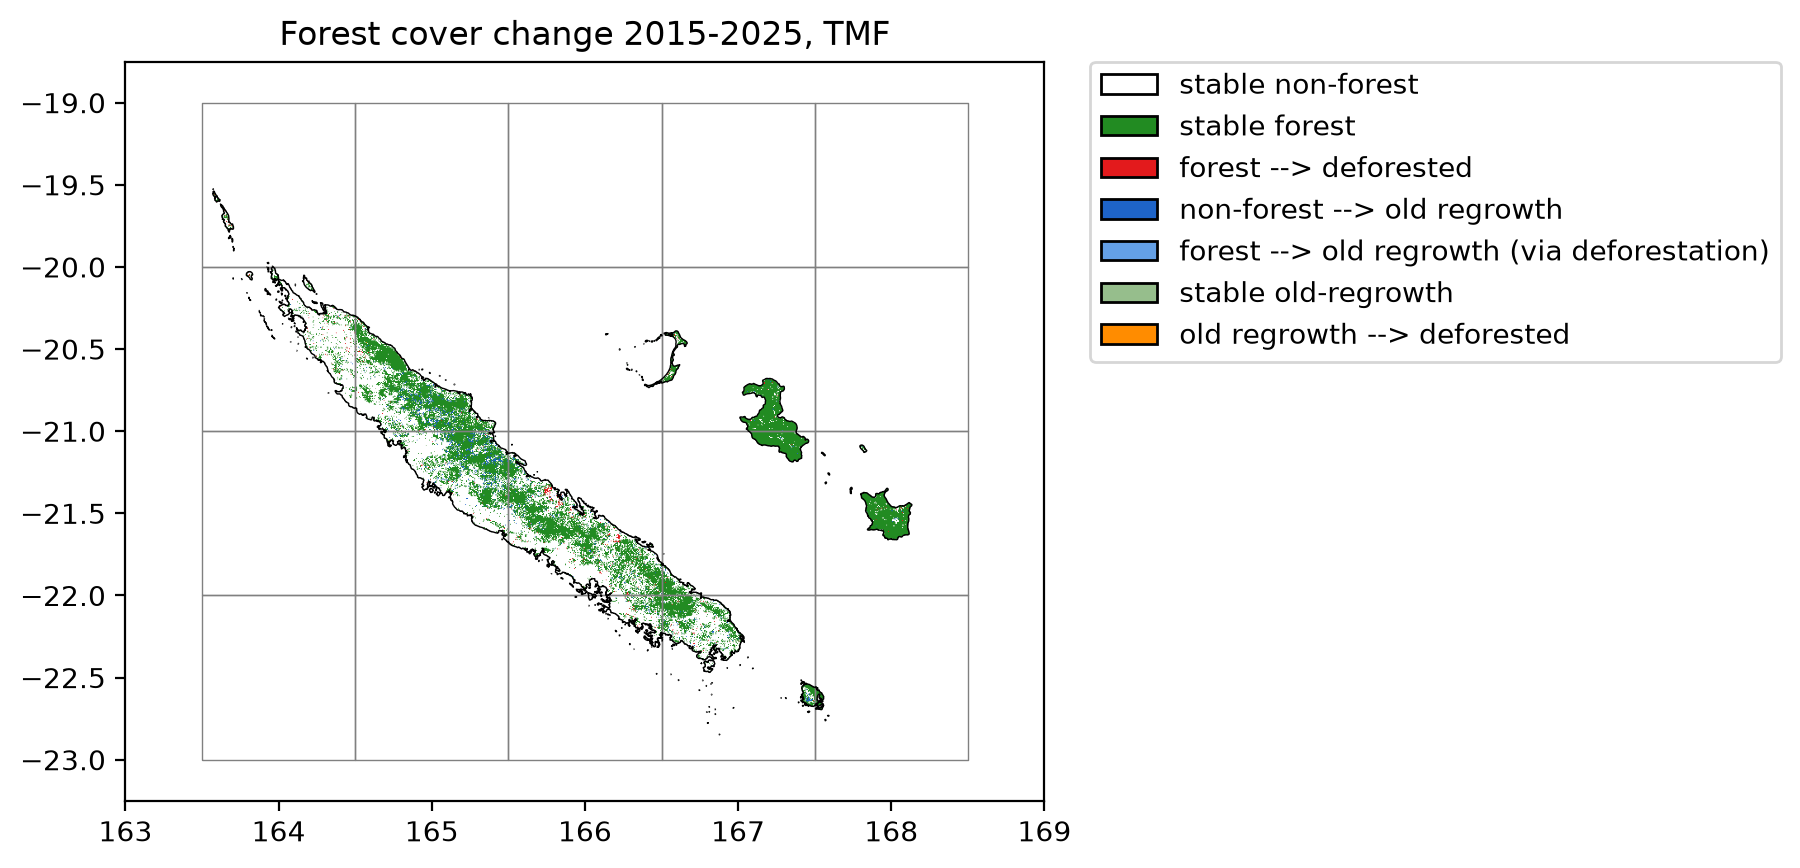
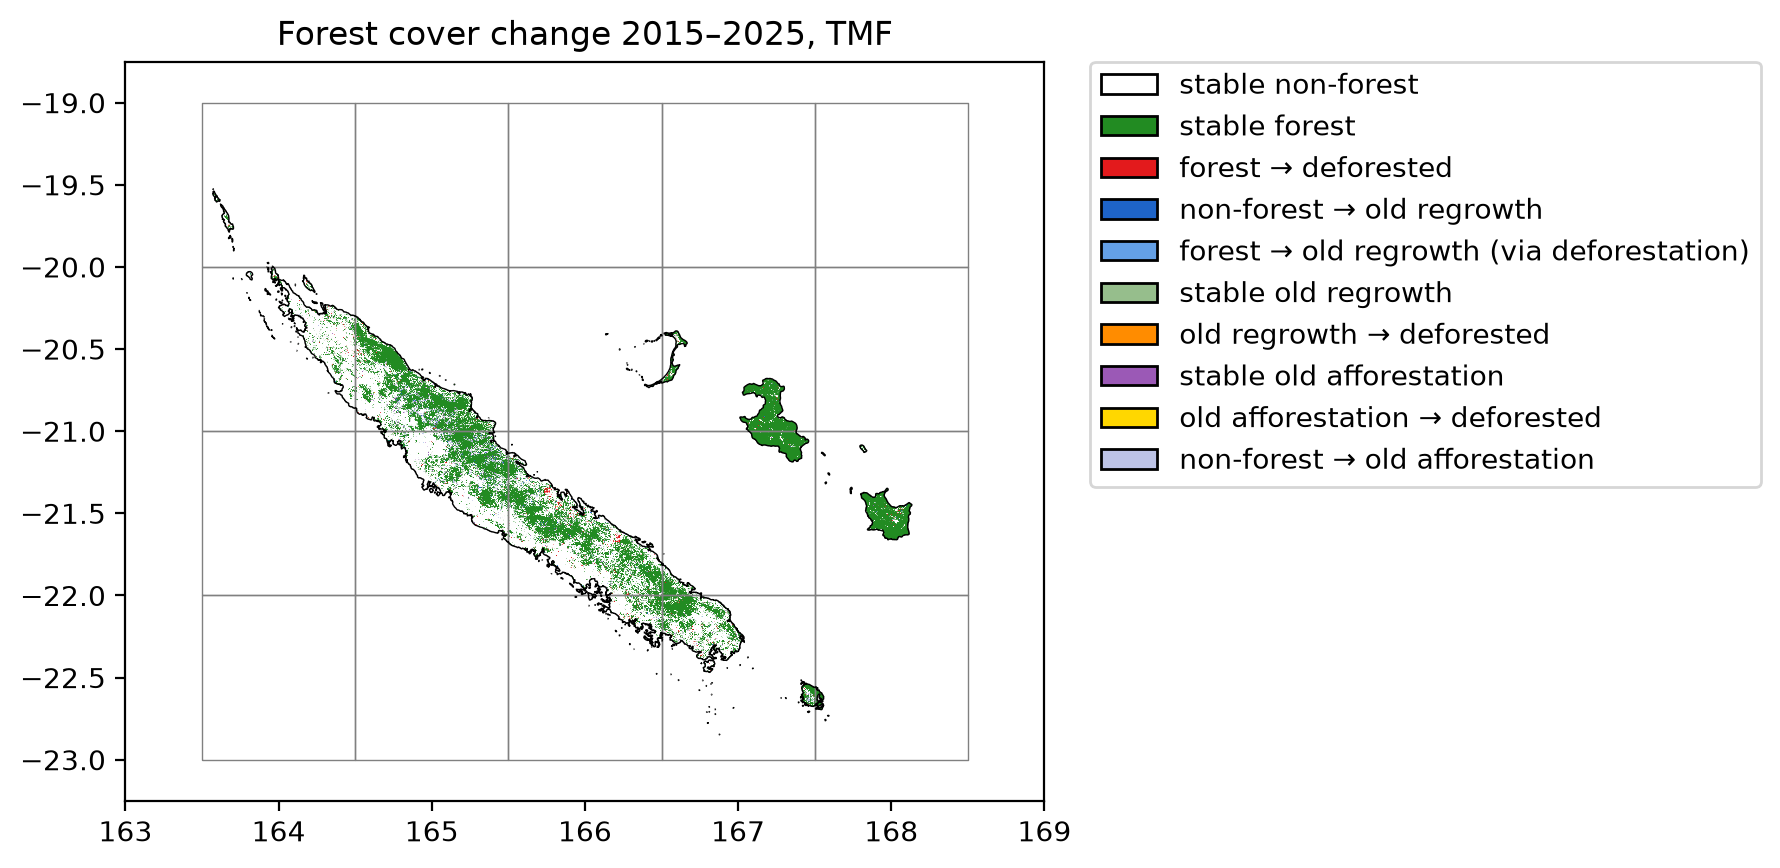
Updating tutorials

diff --git a/docsrc/notebooks/newcal_loss_gain/newcal_loss_gain.rst b/docsrc/notebooks/newcal_loss_gain/newcal_loss_gain.rst
@@ -29,12 +29,12 @@ We will use New Caledonia as a case study.
     # Initialize GEE
     ee.Initialize(project="deforisk", opt_url="https://earthengine-highvolume.googleapis.com")
 
-We want to estimate and map the forest cover change for the period 2015--2025, considering regrowth of at least 5 years as being forest, which is debatable :cite:p:`Poorter2016,Bourgoin2024`.
+We want to estimate and map the forest cover change for the period 2015--2025, considering regrowth of at least 10 years as being forest, which is debatable :cite:p:`Poorter2016,Bourgoin2024`.
 
 .. code:: python
 
     # Download data from GEE
-    min_years = 5
+    min_years = 10
     out_dir = Path(f"out_tmf_{min_years}yr")
     ofile = out_dir / "fcc_tmf.tif"
     if not ofile.is_file():
@@ -60,7 +60,7 @@ We estimate the computation time to download 20 1-degree tiles using several cor
 
 ::
 
-    Execution time: 1.19 minutes
+    Execution time: 1.25 minutes
 
 Plot the forest cover change map
 --------------------------------
@@ -72,7 +72,7 @@ We plot the forest cover change map. The raster is automatically resampled to a 
     geefcc.plot_fcc_loss_gain(
         input_file=ofile,
         output_file=f"fcc_tmf_{min_years}yr.png",
-        title="Forest cover change 2015-2025, TMF",
+        title="Forest cover change 2015\u20132025, TMF",
         dpi=200,
         borders=Path("data") / "borders_NCL.gpkg",
         grid=out_dir / "grid.gpkg",
@@ -80,7 +80,7 @@ We plot the forest cover change map. The raster is automatically resampled to a 
         ylim=(-23.25, -18.75),
     )
 
-.. image:: fcc_tmf_5yr.png
+.. image:: fcc_tmf_10yr.png
     :width: 100%
     :align: center
 
@@ -105,19 +105,25 @@ We use function ``stat_fcc_loss_gain()`` to reproject the raster and compute the
     +----------+---------------------------------------------+-----------+----------+
     | category | label                                       |     count | area\_ha |
     +==========+=============================================+===========+==========+
-    |        0 | stable non-forest                           | 200532616 | 18047935 |
+    |        0 | stable non-forest                           | 201155951 | 18104036 |
     +----------+---------------------------------------------+-----------+----------+
     |        1 | stable forest                               |   9349449 |   841450 |
     +----------+---------------------------------------------+-----------+----------+
-    |        2 | forest --> deforested                       |    161223 |    14510 |
+    |        2 | forest --> deforested                       |    177846 |    16006 |
     +----------+---------------------------------------------+-----------+----------+
-    |        3 | non-forest --> old regrowth                 |    781232 |    70311 |
+    |        3 | non-forest --> old regrowth                 |     69727 |     6275 |
     +----------+---------------------------------------------+-----------+----------+
-    |        4 | forest --> old regrowth (via deforestation) |     16623 |     1496 |
+    |        4 | forest --> old regrowth (via deforestation) |         0 |        0 |
     +----------+---------------------------------------------+-----------+----------+
-    |        5 | stable old-regrowth                         |    516513 |    46486 |
+    |        5 | stable old-regrowth                         |     12317 |     1109 |
     +----------+---------------------------------------------+-----------+----------+
-    |        6 | old regrowth --> deforested                 |      9192 |      827 |
+    |        6 | old regrowth --> deforested                 |      1522 |      137 |
+    +----------+---------------------------------------------+-----------+----------+
+    |        7 | stable old afforestation                    |    187208 |    16849 |
+    +----------+---------------------------------------------+-----------+----------+
+    |        8 | old afforestation --> deforested            |        51 |        5 |
+    +----------+---------------------------------------------+-----------+----------+
+    |        9 | non-forest --> old afforestation            |    412777 |    37150 |
     +----------+---------------------------------------------+-----------+----------+
 
 Deforestation and regrowth estimates
@@ -127,10 +133,10 @@ We can then estimate gross loss, gross gain and net loss in forest cover change 
 
 .. code:: python
 
-    forest_t1 = res_df.loc[[1, 2, 4, 5, 6], "area_ha"].sum()
-    forest_t2 = res_df.loc[[1, 3, 4, 5], "area_ha"].sum()
-    gross_loss = - res_df.loc[[2, 4, 6], "area_ha"].sum()
-    gross_gain = res_df.loc[[3, 4], "area_ha"].sum()
+    forest_t1 = res_df.loc[[1, 2, 4, 5, 6, 7, 8], "area_ha"].sum()
+    forest_t2 = res_df.loc[[1, 3, 4, 5, 7, 9], "area_ha"].sum()
+    gross_loss = - res_df.loc[[2, 4, 6, 8], "area_ha"].sum()
+    gross_gain = res_df.loc[[3, 4, 9], "area_ha"].sum()
     lossgain_df = pd.DataFrame({
         "label": ["forest_t1", "forest_t2", "gross loss", "gross gain", "net change"],
         "area_ha": [forest_t1, forest_t2, gross_loss, gross_gain, gross_gain + gross_loss],
@@ -150,20 +156,58 @@ We can then estimate gross loss, gross gain and net loss in forest cover change 
     +------------+----------+--------------------+----------------------+
     | label      | area\_ha | annual\_change\_ha | annual\_change\_perc |
     +============+==========+====================+======================+
-    | forest\_t1 |   904769 |                nan |                  nan |
+    | forest\_t1 |   875556 |                nan |                  nan |
     +------------+----------+--------------------+----------------------+
-    | forest\_t2 |   959743 |                nan |                  nan |
+    | forest\_t2 |   902833 |                nan |                  nan |
     +------------+----------+--------------------+----------------------+
-    | gross loss |   -16833 |              -1683 |                -0.18 |
+    | gross loss |   -16148 |              -1615 |                -0.18 |
     +------------+----------+--------------------+----------------------+
-    | gross gain |    71807 |               7181 |                 0.82 |
+    | gross gain |    43425 |               4342 |                 0.51 |
     +------------+----------+--------------------+----------------------+
-    | net change |    54974 |               5497 |                 0.62 |
+    | net change |    27277 |               2728 |                 0.32 |
     +------------+----------+--------------------+----------------------+
 
-When considering regrowth of at least 5 years, which is very short for forest recovery :cite:p:`Bourgoin2024`, the gain (7181 ha/yr) compensates the forest cover loss (-1683 ha/yr), and the net change is positive (5947 ha/yr).
+When considering regrowth of at least 10 years, which is short for forest recovery :cite:p:`Bourgoin2024`, the gain (4342 ha/yr) compensates the forest cover loss (-1615 ha/yr), and the net change is positive (2728 ha/yr, corresponding to 0.32 %/yr).
 
-If we consider regrowth of at least 10 years as being forest (``min_years=10`` in function ``get_fcc_loss_gain``), the gain is much smaller (4342 ha/yr), but the net change is still positive (2728 ha/yr corresponding to 0.32 %/yr).
+When disregarding afforestation (categories 8 and 9, which might be several things including missed forest in the past), figures are different:
+
+.. code:: python
+
+    forest_t1 = res_df.loc[[1, 2, 4, 5, 6, 7], "area_ha"].sum()
+    forest_t2 = res_df.loc[[1, 3, 4, 5, 7], "area_ha"].sum()
+    gross_loss = - res_df.loc[[2, 4, 6], "area_ha"].sum()
+    gross_gain = res_df.loc[[3, 4], "area_ha"].sum()
+    lossgain_df = pd.DataFrame({
+        "label": ["forest_t1", "forest_t2", "gross loss", "gross gain", "net change"],
+        "area_ha": [forest_t1, forest_t2, gross_loss, gross_gain, gross_gain + gross_loss],
+    })
+    time = 2025 - 2015
+    lossgain_df["annual_change_ha"] = (lossgain_df["area_ha"] / time).round().astype(int)
+    ratio = lossgain_df["area_ha"] / forest_t1
+    lossgain_df["annual_change_perc"] = round(100 * (1 - pow((1 - ratio), 1 / time)), 2)
+    lossgain_df.iloc[:2, 2:4] = np.nan
+
+    # Export
+    lossgain_df.to_csv(f"loss_gain_statistics_{min_years}yr_noaff.csv", index=False)
+    tabulate(lossgain_df, headers=lossgain_df.columns, tablefmt="orgtbl", showindex=False)
+
+.. table::
+
+    +------------+----------+--------------------+----------------------+
+    | label      | area\_ha | annual\_change\_ha | annual\_change\_perc |
+    +============+==========+====================+======================+
+    | forest\_t1 |   875551 |                nan |                  nan |
+    +------------+----------+--------------------+----------------------+
+    | forest\_t2 |   865683 |                nan |                  nan |
+    +------------+----------+--------------------+----------------------+
+    | gross loss |   -16143 |              -1614 |                -0.18 |
+    +------------+----------+--------------------+----------------------+
+    | gross gain |     6275 |                628 |                 0.07 |
+    +------------+----------+--------------------+----------------------+
+    | net change |    -9868 |               -987 |                -0.11 |
+    +------------+----------+--------------------+----------------------+
+
+In this case, the gain (628 ha/yr) does not compensate for the loss (-1614 ha/yr), and the net change is negative (-987 ha/yr, corresponding to -0.11 %/yr).
 
 References
 ----------

diff --git a/docsrc/notebooks/loss_gain/loss_gain.rst b/docsrc/notebooks/loss_gain/loss_gain.rst
@@ -51,6 +51,10 @@ We want to estimate and map the forest cover change for the period 2015--2025, c
             output_file=ofile,
         )
 
+::
+
+    get_fcc running, 3 tiles ...
+
 Plot the forest cover change map
 --------------------------------
 
@@ -59,7 +63,7 @@ Plot the forest cover change map
     geefcc.plot_fcc_loss_gain(
         input_file=ofile,
         output_file="fcc_loss_gain.png",
-        title="Forest cover change 2015-2025, TMF",
+        title="Forest cover change 2015\u20132025, TMF",
         dpi=100,
     )
 
@@ -70,7 +74,7 @@ Plot the forest cover change map
 Area per class of forest cover change
 -------------------------------------
 
-We use function ``fcc_area()`` to reproject the raster and compute the number of pixels per class and the corresponding area (in ha). We use projection UTM zone 40S (EPSG code 32740) for Reunion island.
+We use function ``stat_fcc_loss_gain()`` to reproject the raster and compute the number of pixels per class and the corresponding area (in ha). We use projection UTM zone 40S (EPSG code 32740) for Reunion island.
 
 .. code:: python
 
@@ -86,19 +90,25 @@ We use function ``fcc_area()`` to reproject the raster and compute the number of
     +----------+---------------------------------------------+---------+----------+
     | category | label                                       |   count | area\_ha |
     +==========+=============================================+=========+==========+
-    |        0 | stable non-forest                           | 2672678 |   240541 |
+    |        0 | stable non-forest                           | 2672683 |   240541 |
     +----------+---------------------------------------------+---------+----------+
     |        1 | stable forest                               | 1387668 |   124890 |
     +----------+---------------------------------------------+---------+----------+
     |        2 | forest --> deforested                       |   67986 |     6119 |
     +----------+---------------------------------------------+---------+----------+
-    |        3 | non-forest --> old regrowth                 |   49882 |     4489 |
+    |        3 | non-forest --> old regrowth                 |   13163 |     1185 |
     +----------+---------------------------------------------+---------+----------+
-    |        4 | forest --> old regrowth (via deforestation) |    1057 |       95 |
+    |        4 | forest --> old regrowth (via deforestation) |    1052 |       95 |
     +----------+---------------------------------------------+---------+----------+
-    |        5 | stable old-regrowth                         |   14629 |     1317 |
+    |        5 | stable old-regrowth                         |    2103 |      189 |
     +----------+---------------------------------------------+---------+----------+
-    |        6 | old regrowth --> deforested                 |     946 |       85 |
+    |        6 | old regrowth --> deforested                 |     921 |       83 |
+    +----------+---------------------------------------------+---------+----------+
+    |        7 | stable old afforestation                    |   12526 |     1127 |
+    +----------+---------------------------------------------+---------+----------+
+    |        8 | old afforestation --> deforested            |      25 |        2 |
+    +----------+---------------------------------------------+---------+----------+
+    |        9 | non-forest --> old afforestation            |   36719 |     3305 |
     +----------+---------------------------------------------+---------+----------+
 
 Deforestation and regrowth estimates
@@ -108,10 +118,10 @@ We can then estimate gross loss, gross gain and net loss in forest cover change 
 
 .. code:: python
 
-    forest_t1 = res_df.loc[[1, 2, 4, 5, 6], "area_ha"].sum()
-    forest_t2 = res_df.loc[[1, 3, 4, 5], "area_ha"].sum()
-    gross_loss = - res_df.loc[[2, 4, 6], "area_ha"].sum()
-    gross_gain = res_df.loc[[3, 4], "area_ha"].sum()
+    forest_t1 = res_df.loc[[1, 2, 4, 5, 6, 7, 8], "area_ha"].sum()
+    forest_t2 = res_df.loc[[1, 3, 4, 5, 7, 9], "area_ha"].sum()
+    gross_loss = - res_df.loc[[2, 4, 6, 8], "area_ha"].sum()
+    gross_gain = res_df.loc[[3, 4, 9], "area_ha"].sum()
     lossgain_df = pd.DataFrame({
         "label": ["forest_t1", "forest_t2", "gross loss", "gross gain", "net change"],
         "area_ha": [forest_t1, forest_t2, gross_loss, gross_gain, gross_gain + gross_loss],
@@ -131,15 +141,15 @@ We can then estimate gross loss, gross gain and net loss in forest cover change 
     +------------+----------+--------------------+----------------------+
     | label      | area\_ha | annual\_change\_ha | annual\_change\_perc |
     +============+==========+====================+======================+
-    | forest\_t1 |   132506 |                nan |                  nan |
+    | forest\_t1 |   132505 |                nan |                  nan |
     +------------+----------+--------------------+----------------------+
     | forest\_t2 |   130791 |                nan |                  nan |
     +------------+----------+--------------------+----------------------+
     | gross loss |    -6299 |               -630 |                -0.47 |
     +------------+----------+--------------------+----------------------+
-    | gross gain |     4584 |                458 |                 0.35 |
+    | gross gain |     4585 |                458 |                 0.35 |
     +------------+----------+--------------------+----------------------+
-    | net change |    -1715 |               -172 |                -0.13 |
+    | net change |    -1714 |               -171 |                -0.13 |
     +------------+----------+--------------------+----------------------+
 
 When considering regrowth of at least 5 years, which is very short for forest recovery :cite:p:`Bourgoin2024`, the gain (458 ha/yr) compensates the forest cover loss (-630 ha/yr), and the net deforestation is small (-172 ha/yr).
